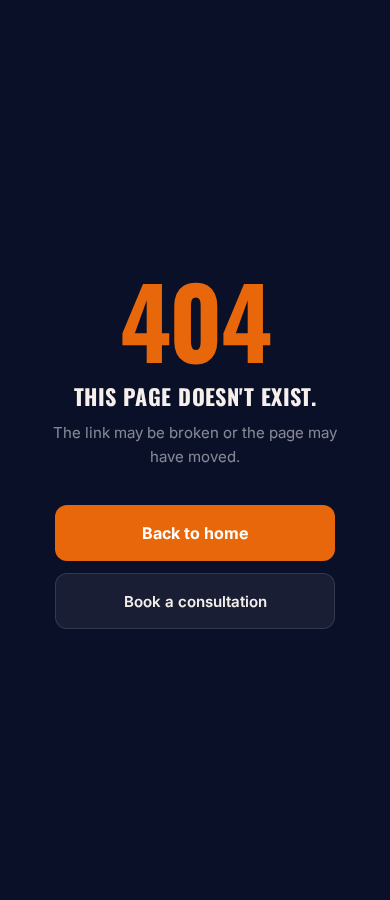
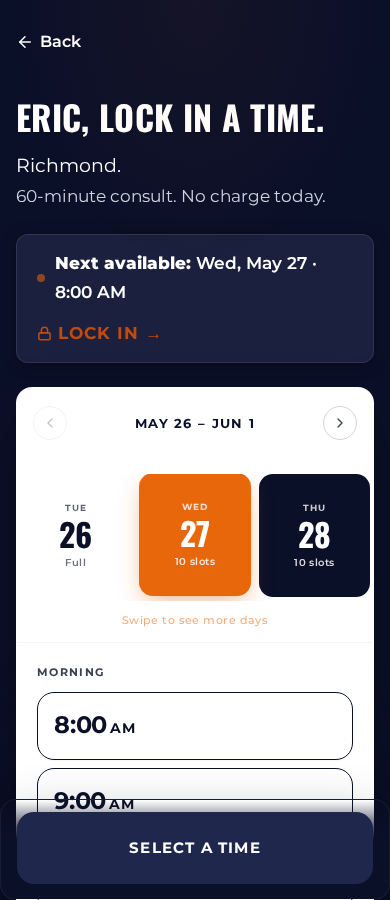
fix: duplicate id='hf-name' and 'hf-phone' on pages with two form instances
Same root cause as the earlier hf-tcpa duplicate ID bug.
FloatInput now uses formId-prefixed IDs matching the existing pattern.
Affects all LP pages (/, /trt, /ed, /wl) which render hero + footer forms.

diff --git a/src/components/landing/trt/TRTHeroForm.tsx b/src/components/landing/trt/TRTHeroForm.tsx
@@ -115,13 +115,13 @@ export const TRTHeroForm = ({
           Reserve Your 60-Minute Visit.
         </h2>
         <form onSubmit={handleSubmit} noValidate style={{ display: "flex", flexDirection: "column", gap: 12 }}>
-          <FloatInput id="hf-name" label="Name" type="text" autoComplete="given-name" placeholder="John"
+          <FloatInput id={`${formId}-name`} label="Name" type="text" autoComplete="given-name" placeholder="John"
             value={name} inputRef={nameRef} error={errors.name} ariaInvalid={!!errors.name}
             icon={<User size={16} strokeWidth={1.75} />}
             onChange={(v) => { setName(v); clearErr("name"); }}
             onFocus={() => { void import("@/pages/book/BookLocation"); }} />
 
-          <FloatInput id="hf-phone" label="Phone" type="tel" inputMode="tel" autoComplete="tel"
+          <FloatInput id={`${formId}-phone`} label="Phone" type="tel" inputMode="tel" autoComplete="tel"
             placeholder="[phone redacted]" value={phone} inputRef={phoneRef} error={errors.phone} ariaInvalid={!!errors.phone}
             icon={<Phone size={16} strokeWidth={1.75} />}
             onChange={(v) => { setPhone(formatPhone(v)); clearErr("phone"); }}

diff --git a/.ralph/METRICS.md b/.ralph/METRICS.md
@@ -299,3 +299,4 @@
 | 2026-05-27T02:58:20.851Z | BookSchedule | 390 | 8.29% | 9.49% | 8.89% | 8.29% | ❌ |
 | 2026-05-27T03:06:49.055Z | BookSchedule | 390 | 42.32% | 51.94% | 47.13% | 42.32% | ❌ |
 | 2026-05-27T03:08:22.233Z | BookSchedule | 390 | 42.32% | 51.94% | 47.13% | 42.32% | ❌ |
+| 2026-05-27T03:13:09.871Z | BookSchedule | 390 | 8.29% | 9.49% | 8.89% | 8.29% | ❌ |